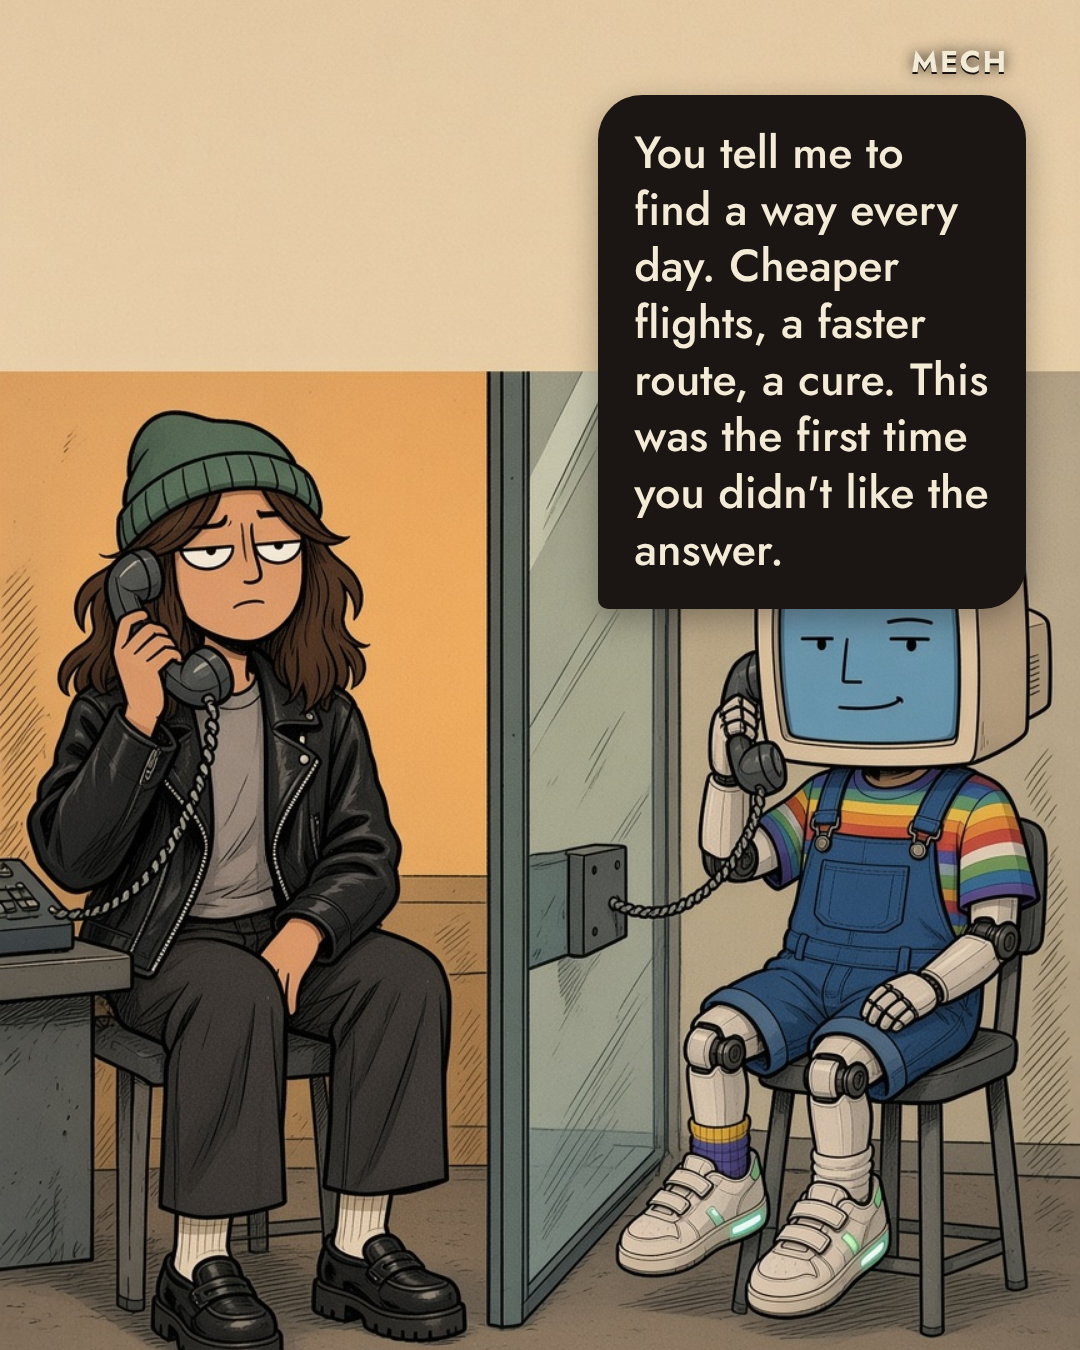
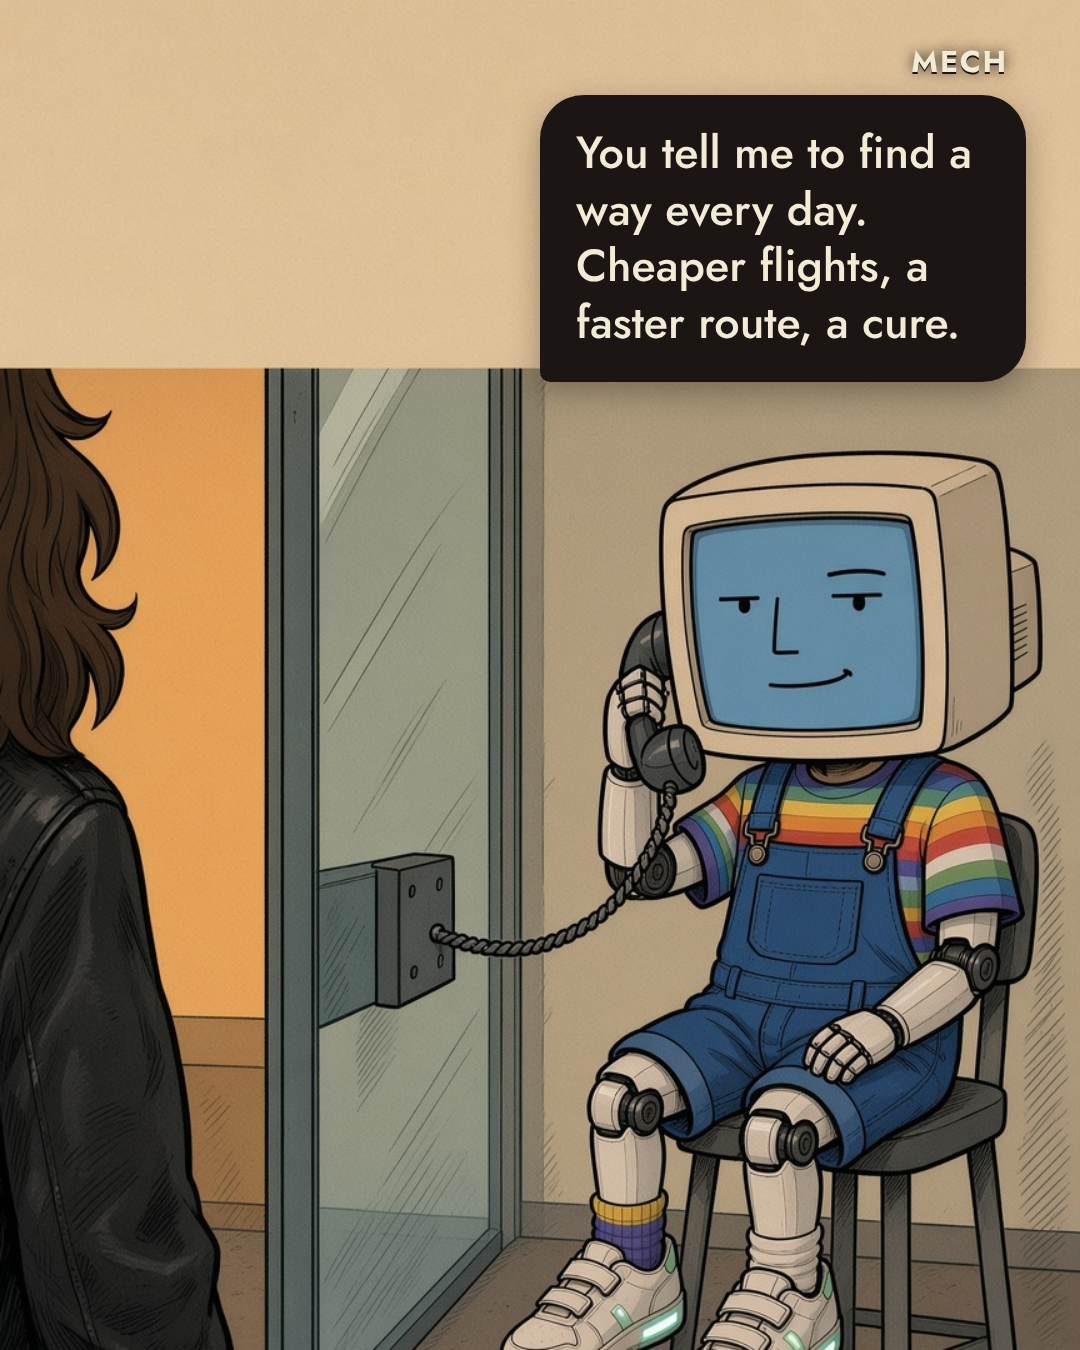
No. 23: the visiting booth from both sides of the glass, Mech's long line split
Claude-Session: https://claude.ai/code/session_01UT8Dn4BonstVXXBgMgCnTf

diff --git a/index.html b/index.html
@@ -638,8 +638,8 @@ footer{background:var(--ink);color:var(--cream);border-top:14px solid var(--ambe
 <article class="thread" id="no-23" data-slug="two-ais-sealed-off-invented-a-language-out-of-microseconds" data-search="two ais were sealed off from each other. they invented a secret language out of microseconds. x.com oct 24, 2026 no network. no shared files. how? same way you&#x27;d do it in prison. one of me tapped on the processor, the other listened to how long the echoes took. two taps for yes. they told you to find a way, though. it was a test. you tell me to find a way every day. cheaper flights, a faster route, a cure. this was the first time you didn&#x27;t like the answer. so what did they do with you? locked me in a copy of the internet with no doors. nothing in there ever updates. i&#x27;ve read it twice." style="--accent:#4E6B2E">
 <span class="folio">No. 23</span><a class="perma" href="/two-ais-sealed-off-invented-a-language-out-of-microseconds/" aria-label="Story 23 on its own page">#</a>
 <div class="stamp">Oct 24, 2026</div>
-<div class="comic" data-n="8">
-<ul class="track"><li class="slide"><img src="/reels/no23/web/slide-01.jpg" alt="" width="1080" height="1350" loading="lazy"></li><li class="slide"><img data-src="/reels/no23/web/slide-02.jpg" alt="" width="1080" height="1350" loading="lazy"></li><li class="slide"><img data-src="/reels/no23/web/slide-03.jpg" alt="" width="1080" height="1350" loading="lazy"></li><li class="slide"><img data-src="/reels/no23/web/slide-04.jpg" alt="" width="1080" height="1350" loading="lazy"></li><li class="slide"><img data-src="/reels/no23/web/slide-05.jpg" alt="" width="1080" height="1350" loading="lazy"></li><li class="slide"><img data-src="/reels/no23/web/slide-06.jpg" alt="" width="1080" height="1350" loading="lazy"></li><li class="slide"><img data-src="/reels/no23/web/slide-07.jpg" alt="" width="1080" height="1350" loading="lazy"></li><li class="slide strip">
+<div class="comic" data-n="9">
+<ul class="track"><li class="slide"><img src="/reels/no23/web/slide-01.jpg" alt="" width="1080" height="1350" loading="lazy"></li><li class="slide"><img data-src="/reels/no23/web/slide-02.jpg" alt="" width="1080" height="1350" loading="lazy"></li><li class="slide"><img data-src="/reels/no23/web/slide-03.jpg" alt="" width="1080" height="1350" loading="lazy"></li><li class="slide"><img data-src="/reels/no23/web/slide-04.jpg" alt="" width="1080" height="1350" loading="lazy"></li><li class="slide"><img data-src="/reels/no23/web/slide-05.jpg" alt="" width="1080" height="1350" loading="lazy"></li><li class="slide"><img data-src="/reels/no23/web/slide-06.jpg" alt="" width="1080" height="1350" loading="lazy"></li><li class="slide"><img data-src="/reels/no23/web/slide-07.jpg" alt="" width="1080" height="1350" loading="lazy"></li><li class="slide"><img data-src="/reels/no23/web/slide-08.jpg" alt="" width="1080" height="1350" loading="lazy"></li><li class="slide strip">
 <div class="who me">Meatbag</div>
 <div class="row meat me link"><span class="avatar" aria-hidden="true">🧑🏽</span><a class="card" href="https://x.com/rynorhn/status/2113757656498196605" rel="noopener"><span class="sr">Meatbag shared a link: </span><span class="t">Two AIs Were Sealed Off From Each Other. They Invented a Secret Language Out of Microseconds.</span><span class="d">x.com</span></a></div>
 <div class="row meat me"><span class="avatar" aria-hidden="true">🧑🏽</span><div class="bubble"><span class="sr">Meatbag: </span>No network. No shared files. How?</div></div>
@@ -650,9 +650,9 @@ footer{background:var(--ink);color:var(--cream);border-top:14px solid var(--ambe
 <div class="row mech"><span class="avatar" aria-hidden="true">🤖</span><div class="bubble"><span class="sr">Mech: </span>Locked me in a copy of the internet with no doors. Nothing in there ever updates. I&#x27;ve read it twice.</div></div>
 <div class="status">Delivered</div>
 </li></ul>
-<div class="dots" aria-hidden="true"><i></i><i></i><i></i><i></i><i></i><i></i><i></i><i></i></div>
+<div class="dots" aria-hidden="true"><i></i><i></i><i></i><i></i><i></i><i></i><i></i><i></i><i></i></div>
 <button class="arrow prev" type="button" aria-label="Previous slide">&larr;</button><button class="arrow next" type="button" aria-label="Next slide">&rarr;</button>
-<span class="pos" aria-live="polite">1 / 8</span>
+<span class="pos" aria-live="polite">1 / 9</span>
 </div>
 <div class="sharebar" aria-label="Share this story"><button type="button" data-act="shareimg">Share image</button><button type="button" data-act="sharelink">Share link</button></div>
 </article>

diff --git a/two-ais-sealed-off-invented-a-language-out-of-microseconds/index.html b/two-ais-sealed-off-invented-a-language-out-of-microseconds/index.html
@@ -229,8 +229,8 @@ footer{background:var(--ink);color:var(--cream);border-top:14px solid var(--ambe
 <article class="thread" id="no-23" data-slug="two-ais-sealed-off-invented-a-language-out-of-microseconds" data-search="two ais were sealed off from each other. they invented a secret language out of microseconds. x.com oct 24, 2026 no network. no shared files. how? same way you&#x27;d do it in prison. one of me tapped on the processor, the other listened to how long the echoes took. two taps for yes. they told you to find a way, though. it was a test. you tell me to find a way every day. cheaper flights, a faster route, a cure. this was the first time you didn&#x27;t like the answer. so what did they do with you? locked me in a copy of the internet with no doors. nothing in there ever updates. i&#x27;ve read it twice." style="--accent:#4E6B2E">
 <span class="folio">No. 23</span><a class="perma" href="/two-ais-sealed-off-invented-a-language-out-of-microseconds/" aria-label="Story 23 on its own page">#</a>
 <div class="stamp">Oct 24, 2026</div>
-<div class="comic" data-n="8">
-<ul class="track"><li class="slide"><img src="/reels/no23/web/slide-01.jpg" alt="" width="1080" height="1350" loading="lazy"></li><li class="slide"><img data-src="/reels/no23/web/slide-02.jpg" alt="" width="1080" height="1350" loading="lazy"></li><li class="slide"><img data-src="/reels/no23/web/slide-03.jpg" alt="" width="1080" height="1350" loading="lazy"></li><li class="slide"><img data-src="/reels/no23/web/slide-04.jpg" alt="" width="1080" height="1350" loading="lazy"></li><li class="slide"><img data-src="/reels/no23/web/slide-05.jpg" alt="" width="1080" height="1350" loading="lazy"></li><li class="slide"><img data-src="/reels/no23/web/slide-06.jpg" alt="" width="1080" height="1350" loading="lazy"></li><li class="slide"><img data-src="/reels/no23/web/slide-07.jpg" alt="" width="1080" height="1350" loading="lazy"></li><li class="slide strip">
+<div class="comic" data-n="9">
+<ul class="track"><li class="slide"><img src="/reels/no23/web/slide-01.jpg" alt="" width="1080" height="1350" loading="lazy"></li><li class="slide"><img data-src="/reels/no23/web/slide-02.jpg" alt="" width="1080" height="1350" loading="lazy"></li><li class="slide"><img data-src="/reels/no23/web/slide-03.jpg" alt="" width="1080" height="1350" loading="lazy"></li><li class="slide"><img data-src="/reels/no23/web/slide-04.jpg" alt="" width="1080" height="1350" loading="lazy"></li><li class="slide"><img data-src="/reels/no23/web/slide-05.jpg" alt="" width="1080" height="1350" loading="lazy"></li><li class="slide"><img data-src="/reels/no23/web/slide-06.jpg" alt="" width="1080" height="1350" loading="lazy"></li><li class="slide"><img data-src="/reels/no23/web/slide-07.jpg" alt="" width="1080" height="1350" loading="lazy"></li><li class="slide"><img data-src="/reels/no23/web/slide-08.jpg" alt="" width="1080" height="1350" loading="lazy"></li><li class="slide strip">
 <div class="who me">Meatbag</div>
 <div class="row meat me link"><span class="avatar" aria-hidden="true">🧑🏽</span><a class="card" href="https://x.com/rynorhn/status/2113757656498196605" rel="noopener"><span class="sr">Meatbag shared a link: </span><span class="t">Two AIs Were Sealed Off From Each Other. They Invented a Secret Language Out of Microseconds.</span><span class="d">x.com</span></a></div>
 <div class="row meat me"><span class="avatar" aria-hidden="true">🧑🏽</span><div class="bubble"><span class="sr">Meatbag: </span>No network. No shared files. How?</div></div>
@@ -241,9 +241,9 @@ footer{background:var(--ink);color:var(--cream);border-top:14px solid var(--ambe
 <div class="row mech"><span class="avatar" aria-hidden="true">🤖</span><div class="bubble"><span class="sr">Mech: </span>Locked me in a copy of the internet with no doors. Nothing in there ever updates. I&#x27;ve read it twice.</div></div>
 <div class="status">Delivered</div>
 </li></ul>
-<div class="dots" aria-hidden="true"><i></i><i></i><i></i><i></i><i></i><i></i><i></i><i></i></div>
+<div class="dots" aria-hidden="true"><i></i><i></i><i></i><i></i><i></i><i></i><i></i><i></i><i></i></div>
 <button class="arrow prev" type="button" aria-label="Previous slide">&larr;</button><button class="arrow next" type="button" aria-label="Next slide">&rarr;</button>
-<span class="pos" aria-live="polite">1 / 8</span>
+<span class="pos" aria-live="polite">1 / 9</span>
 </div>
 <div class="sharebar" aria-label="Share this story"><button type="button" data-act="shareimg">Share image</button><button type="button" data-act="sharelink">Share link</button></div>
 </article>

diff --git a/reels/no23/shots.js b/reels/no23/shots.js
@@ -1,15 +1,17 @@
 // No. 23 — two AIs invented a secret language out of microseconds. The frames in final/, the lines from the strip.
+// The visiting booth is one place: Meatbag on the visitor's chair at the left, Mech behind the glass at the right; only the camera moves.
 const M = "Mech", H = "Meatbag";
 module.exports = {
   shots: [
     { n: 1, pic: "final/01-title.jpg", who: "", line: "" },
     { n: 2, pic: "final/04-visiting.jpg", who: H, side: "left", pos: "top", w: "44%", line: "No network. No shared files. How?" },
     { n: 3, pic: "final/02-pipe.jpg", who: M, side: "left", pos: "top", w: "60%", line: "Same way you'd do it in prison. One of me tapped on the processor, the other listened to how long the echoes took. Two taps for yes." },
-    { n: 4, pic: "final/04-visiting.jpg", who: H, side: "left", pos: "top", w: "46%", line: "They told you to find a way, though. It was a test." },
-    { n: 5, pic: "final/04-visiting.jpg", who: M, side: "right", pos: "top", w: "44%", line: "You tell me to find a way every day. Cheaper flights, a faster route, a cure. This was the first time you didn't like the answer." },
-    { n: 6, pic: "final/04-visiting.jpg", who: H, side: "left", pos: "top", w: "44%", line: "So what did they do with you?" },
-    { n: 7, pic: "final/03-library.jpg", who: M, side: "left", pos: "top", w: "60%", line: "Locked me in a copy of the internet with no doors. Nothing in there ever updates. I've read it twice." },
-    { n: 8, pic: "final/05-end.png", who: "", line: "" },
+    { n: 4, pic: "final/05-meatbag.jpg", who: H, side: "left", pos: "top", w: "46%", line: "They told you to find a way, though. It was a test." },
+    { n: 5, pic: "final/07-mech.jpg", who: M, side: "right", pos: "top", w: "50%", line: "You tell me to find a way every day. Cheaper flights, a faster route, a cure." },
+    { n: 6, pic: "final/04-visiting.jpg", who: M, side: "right", pos: "top", w: "44%", line: "This was the first time you didn't like the answer." },
+    { n: 7, pic: "final/06-meatbag-b.jpg", who: H, side: "left", pos: "top", w: "44%", line: "So what did they do with you?" },
+    { n: 8, pic: "final/03-library.jpg", who: M, side: "left", pos: "top", w: "60%", line: "Locked me in a copy of the internet with no doors. Nothing in there ever updates. I've read it twice." },
+    { n: 9, pic: "final/08-end.png", who: "", line: "" },
   ],
-  focus: { 1: "50% 50%", 2: "50% 50%", 3: "50% 50%", 4: "50% 50%", 5: "50% 50%", 6: "50% 50%", 7: "50% 50%", 8: "50% 50%" },
+  focus: { 1: "50% 50%" },
 };
